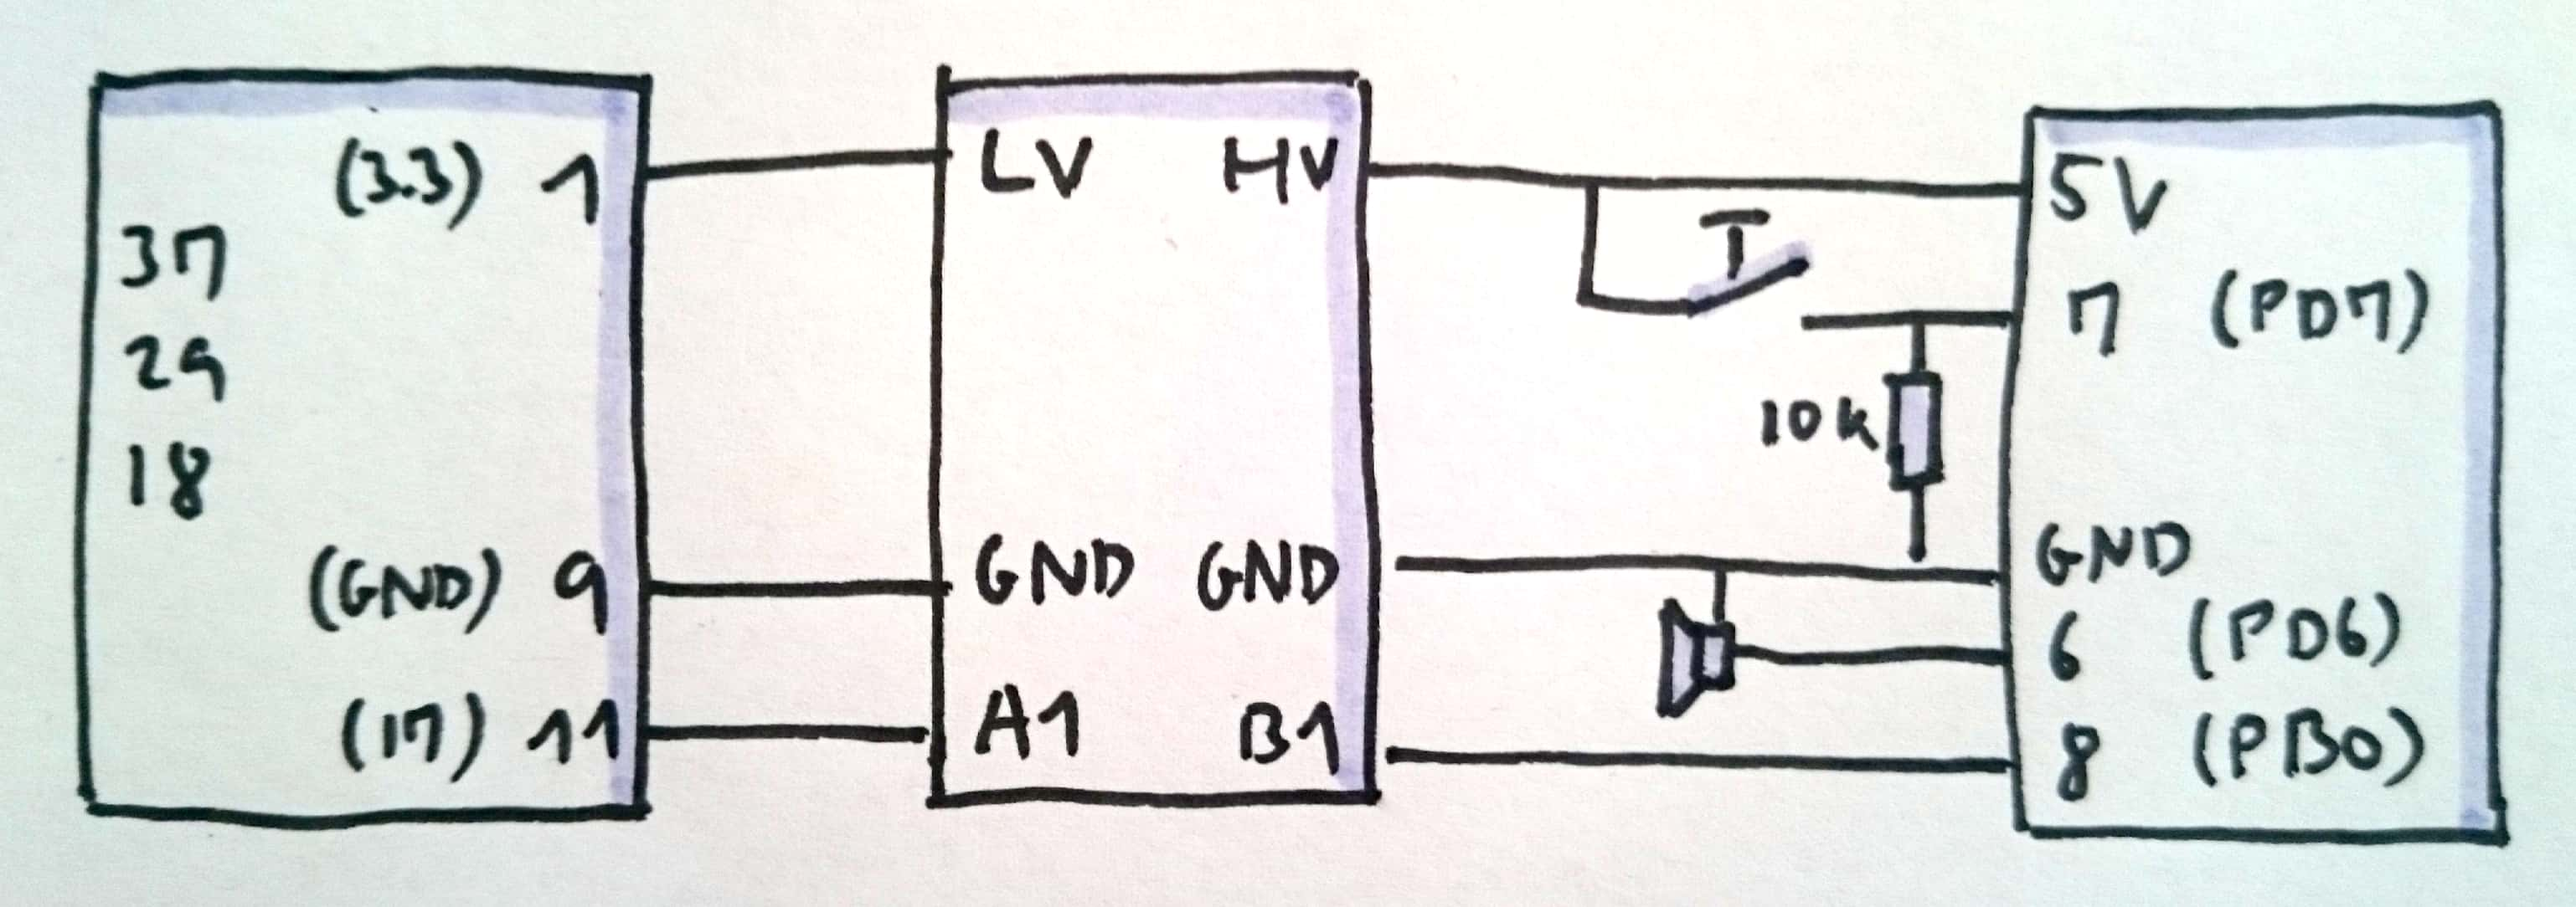
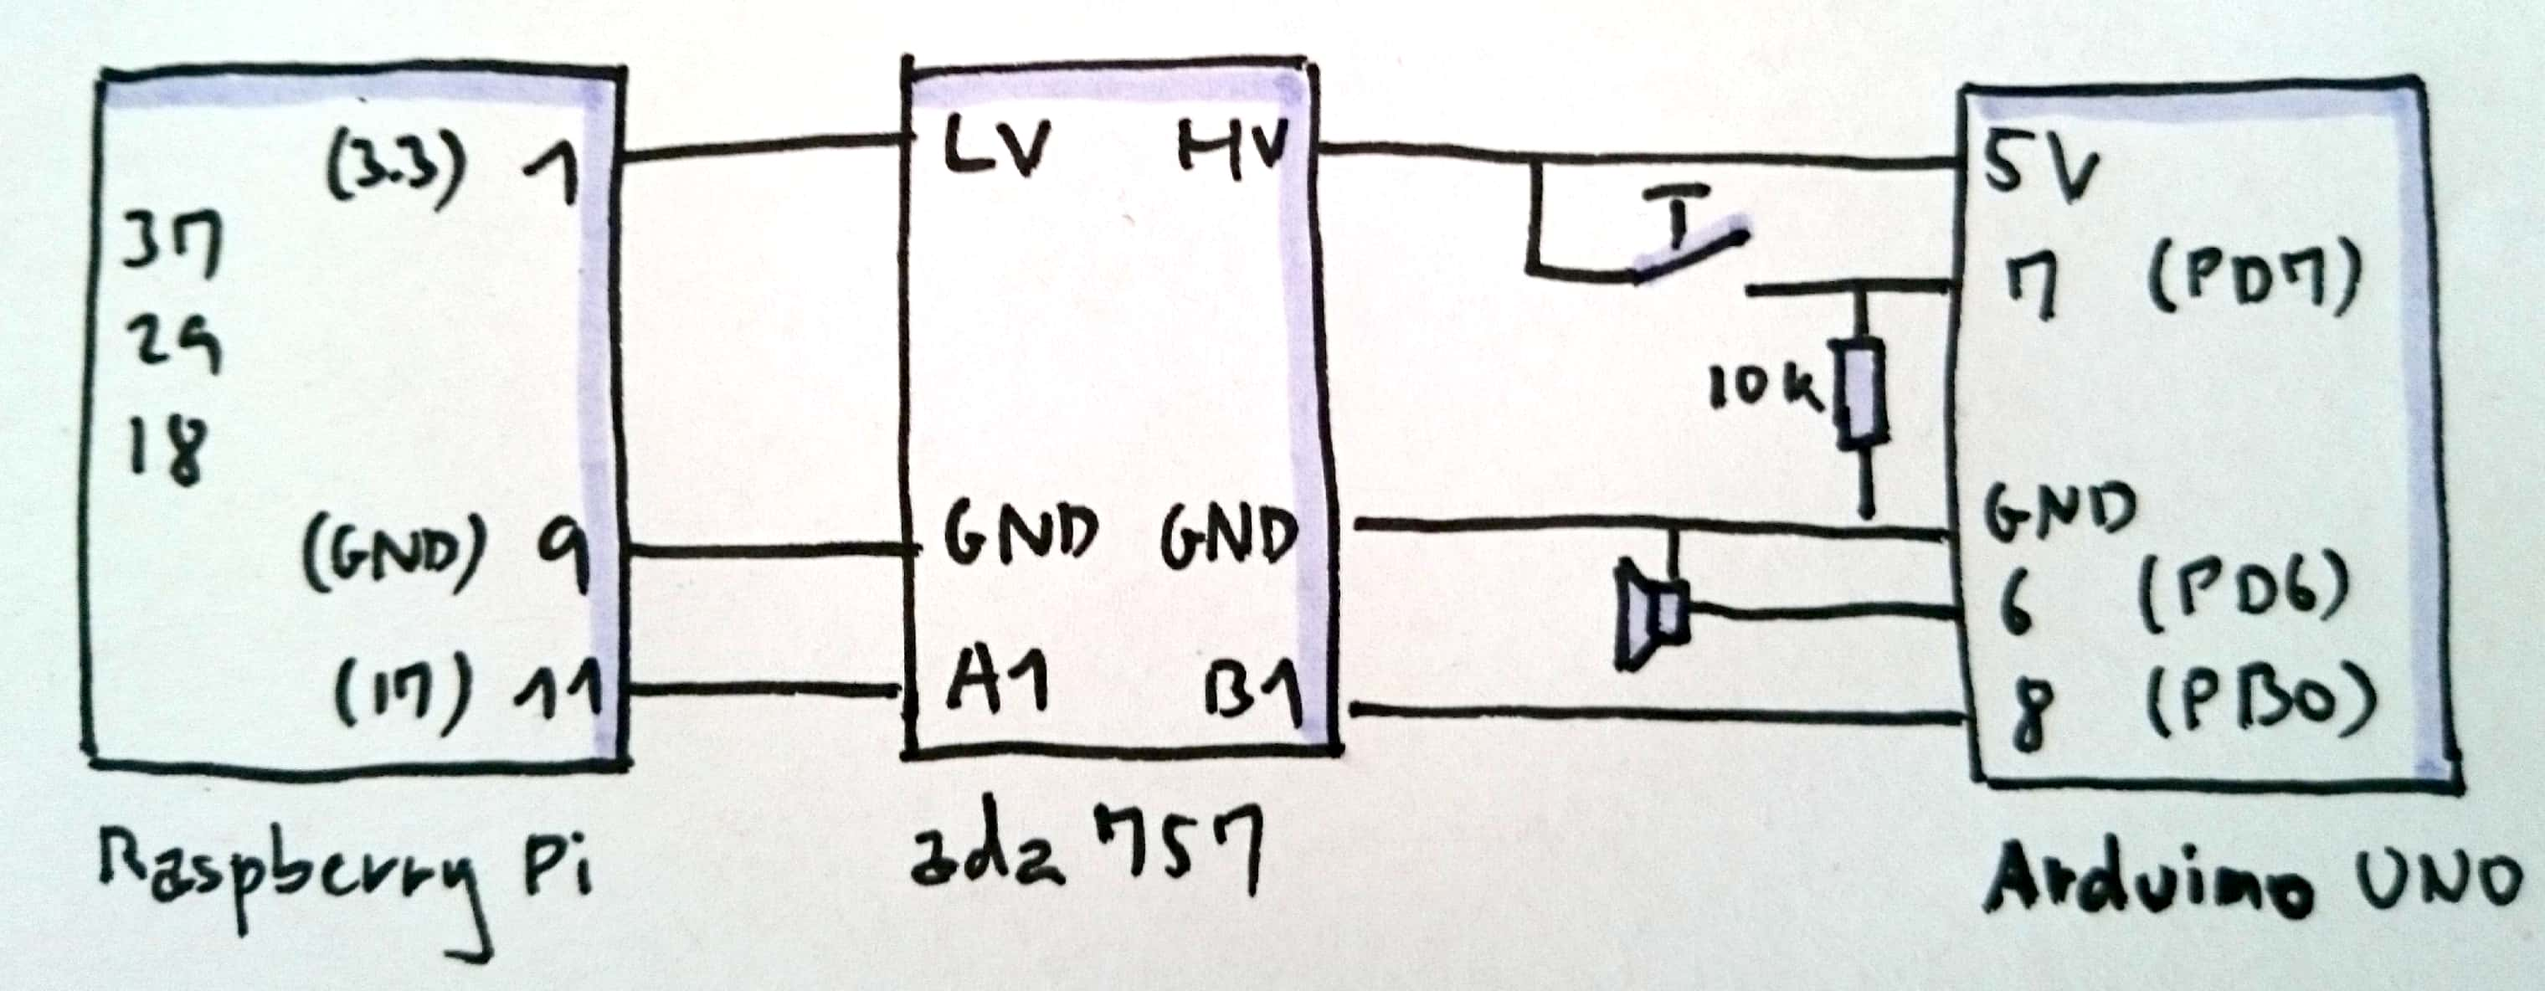
Update readme

Changed region(s): [[0.0, 0.0304, 1.0, 1.0], [0.5312, 0.9133, 0.5938, 1.0]]

diff --git a/README.md b/README.md
@@ -2,8 +2,7 @@
 
 [![Build Status](https://travis-ci.org/raphaelmeyer/skeleton.svg?branch=master)](https://travis-ci.org/raphaelmeyer/skeleton/)
 
-
-![schematic](doc/schematic.jpg?raw=true "schematic")
+## Hardware
 
 
                 arduino       ada 757       rpi
@@ -19,4 +18,47 @@
                                             18 (24)
                                             29  (5)
                                             37 (26)
+
+
+![schematic](doc/schematic.jpg?raw=true "schematic")
+
+
+## Setup
+
+Install the [image](https://www.dropbox.com/s/tum9hzxbb5pnc2c/ybpi-rpi2-image-raspberrypi2_2.3.0.rpi-sdimg?raw=1) to a SD card and resize the root partition:
+
+    $ sudo dd if=ybpi-rpi2-image-raspberrypi2_2.3.0.rpi-sdimg of=/dev/sdX
+    $ sudo parted /dev/sdX resizepart 2 1024M
+    $ sudo resize2fs /dev/sdX2
+
+
+Configure and reboot the target hardware:
+
+    make module-configure
+
+
+Get an overview of the most important make targets:
+
+    make help
+
+
+## Install and run
+
+    make device-deploy
+    make module-deploy
+
+
+## Run hardware tests
+
+In order to run the unit tests on the Raspberry Pi target hardware,
+connect a loopback cable from GPIO 5 (pin 29) to GPIO 26 (pin 37):
+
+    make module-tests-target
+
+
+To run the feature tests on the Raspberry Pi target hardware,
+connect a loopback cable from GPIO 17 (pin 11) to GPIO 24 (pin 18):
+
+    make module-features-target
+
 
